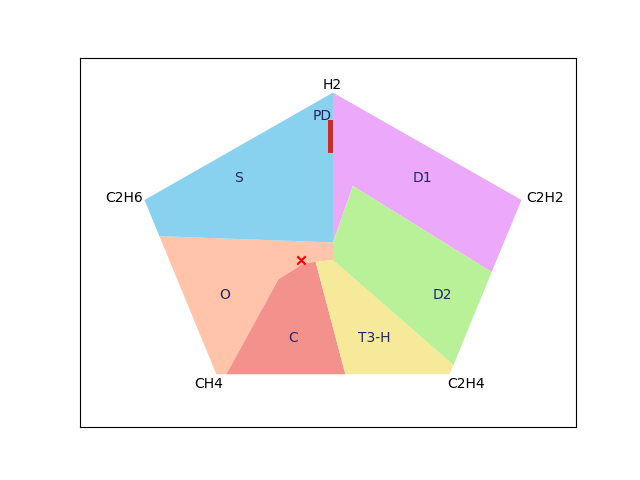
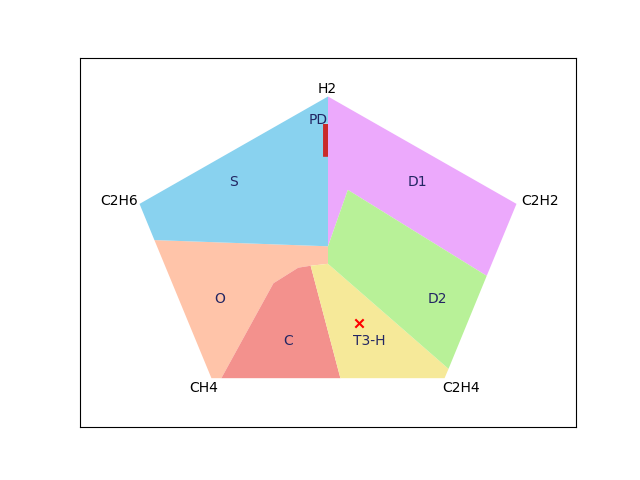
second commit

diff --git a/website/templates/base.html b/website/templates/base.html
@@ -48,7 +48,7 @@
         <div class="navbar-nav">
           {% if user.is_authenticated %}
           <a class="nav-item nav-link" id="home" href="/">Home</a>
-          <a class="nav-item nav-link" id="records" href="/all-record">New Record</a>
+          <a class="nav-item nav-link" id="records" href="/new-record">New Record</a>
           <a class="nav-item nav-link" id="logout" href="/logout">Logout</a>
           {% else %}
           <a class="nav-item nav-link" id="login" href="/login">Login</a>

diff --git a/website/static/index.js b/website/static/index.js
@@ -12,7 +12,7 @@ function deleteRecord(recordId) {
     method:"POST",
     body: JSON.stringify({ recordId: recordId }),
   }).then((_res) => {
-    window.location.href = "/all-record";
+    window.location.href = "/";
   });
 }
 

diff --git a/website/views.py b/website/views.py
@@ -30,7 +30,7 @@ def delete_note():
     return jsonify({})
 
 
-@views.route('/all-record', methods=['GET', 'POST'])
+@views.route('/new-record', methods=['GET', 'POST'])
 @login_required
 def all_record():
     if request.method == 'POST':
@@ -90,6 +90,7 @@ def delete_record():
         if record.user_id == current_user.id:
             db.session.delete(record)
             db.session.commit()
+            flash('Record deleted!', category='success')
 
     return jsonify({})
 
@@ -113,8 +114,8 @@ def start_analyse():
             dt1(ethylene, methane, acetylene)
             dt4(methane, hydrogen, ethane)
             dt5(ethylene, methane, ethane)
-            pentagon1(hydrogen, acetylene, methane, ethylene, ethane)
-            pentagon2(hydrogen, acetylene, methane, ethylene, ethane)
+            pentagon1(ethane, hydrogen, acetylene, ethylene, methane)
+            pentagon2(ethane, hydrogen, acetylene, ethylene, methane)
             flash('Duval triangle analysis starting', category='success')
 
     return jsonify({})
@@ -477,8 +478,9 @@ def dt5(ethylene, methane, ethane):
     plt.savefig('website/static/images/dt5.png')
 
 
-def centroid(h2, c2h6, ch4, c2h4, c2h2):
+def centroid(c2h6, h2, c2h2, c2h4, ch4):
     gas = [c2h6, h2, c2h2, c2h4, ch4]
+    print(gas)
 
     total = sum(gas)
     count = 0
@@ -525,12 +527,15 @@ def centroid(h2, c2h6, ch4, c2h4, c2h2):
     cy = ((y[0] + y[1]) * a[0]) + ((y[1] + y[2]) * a[1]) + ((y[2] + y[3]) * a[2]) + ((y[3] + y[4]) * a[3]) + (
             (y[4] + y[0]) * a[4])
     Cy = cy * (1 / (6 * area))
+    print("Cx = ", Cx)
+    print("Cx = ", Cy)
 
-    return Cx, Cy, 1
+    return [Cx, Cy, 1]
 
 
-def pentagon1(h2, c2h6, ch4, c2h4, c2h2):
-    coordinate = centroid(h2, c2h6, ch4, c2h4, c2h2)
+def pentagon1(c2h6, h2, c2h2, c2h4, ch4):
+    coordinate = centroid(c2h6, h2, c2h2, c2h4, ch4)
+    print("The coordinate array pentagon 1 = ", coordinate)
 
     A = np.array([[1, 0, 0], [0, 1, 0], [0, 0, 1]])
 
@@ -629,9 +634,11 @@ def pentagon1(h2, c2h6, ch4, c2h4, c2h2):
     plt.savefig('website/static/images/dp1.png')
 
 
-def pentagon2(h2, c2h6, ch4, c2h4, c2h2):
-    coordinate = centroid(h2, c2h6, ch4, c2h4, c2h2)
-    A = np.array([[1, 0, 1], [0, 1, 1], [0, 0, 1]])
+def pentagon2(c2h6, h2, c2h2, c2h4, ch4):
+    coordinate = centroid(c2h6, h2, c2h2, c2h4, ch4)
+    print("The coordinate array pentagon 2 = ", coordinate)
+
+    A = np.array([[1, 0, 0], [0, 1, 0], [0, 0, 1]])
 
     #
     # Define a set of points for Duval triangle regions
